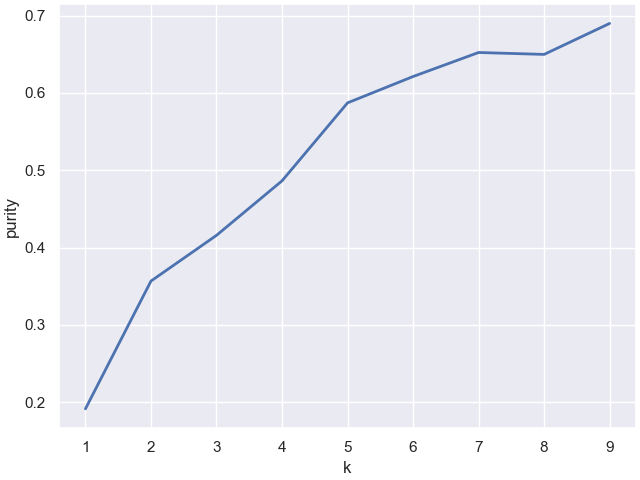
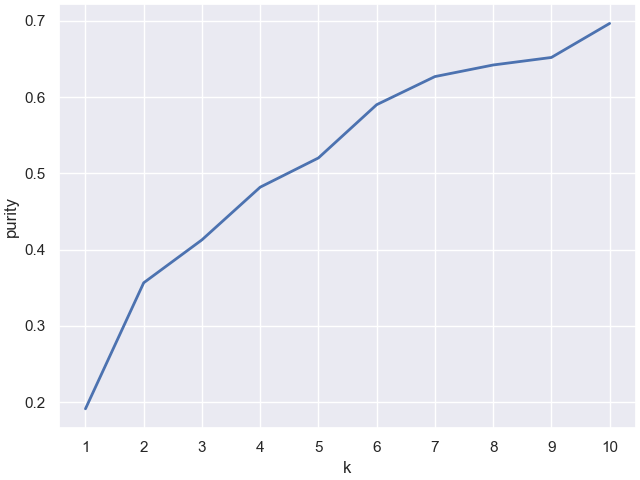
Final graphs

diff --git a/src/main.py b/src/main.py
@@ -129,7 +129,7 @@ def apply_kmeans(do_pca, x_train, y_train, kmeans_max_iter, kmeans_max_k):
     # Plot the average (over 5 runs) of  purity versus k for k = 1...10
     ###################################################################
 
-    for k in range(1, 10):
+    for k in range(1, 11):
         _, sse, purity = apply_kmeans_avg(x_train, y_train, kmeans_max_iter, k=k, iterations=5)
         train_sses_vs_k.append(sse)
         train_purities_vs_k.append(purity)
